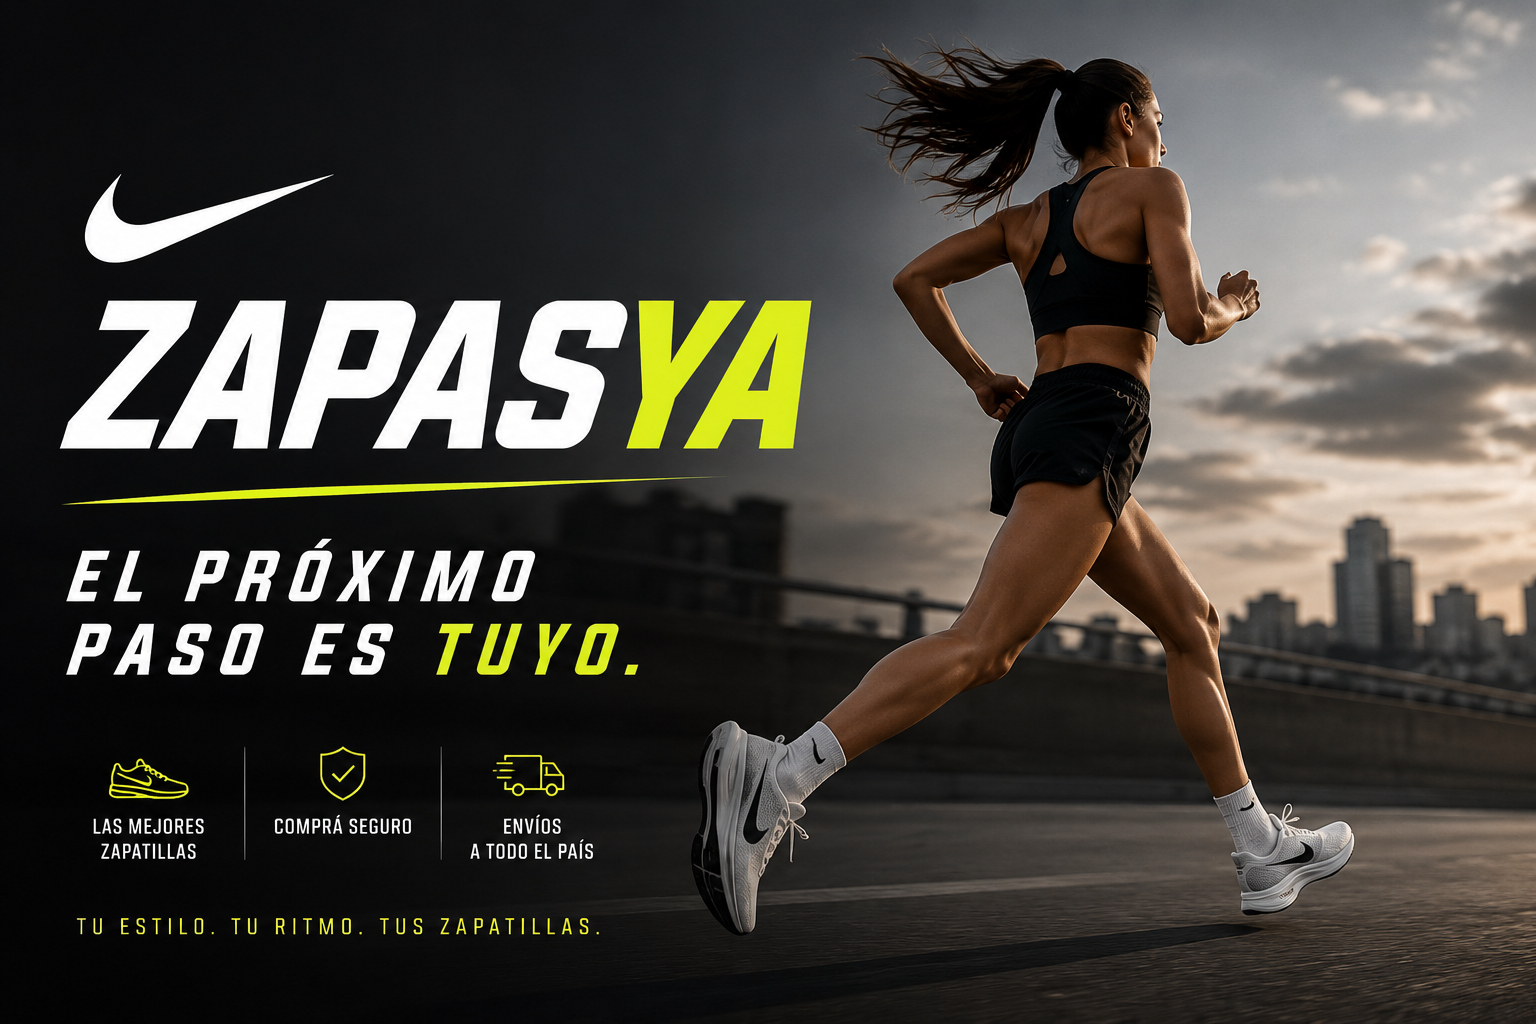
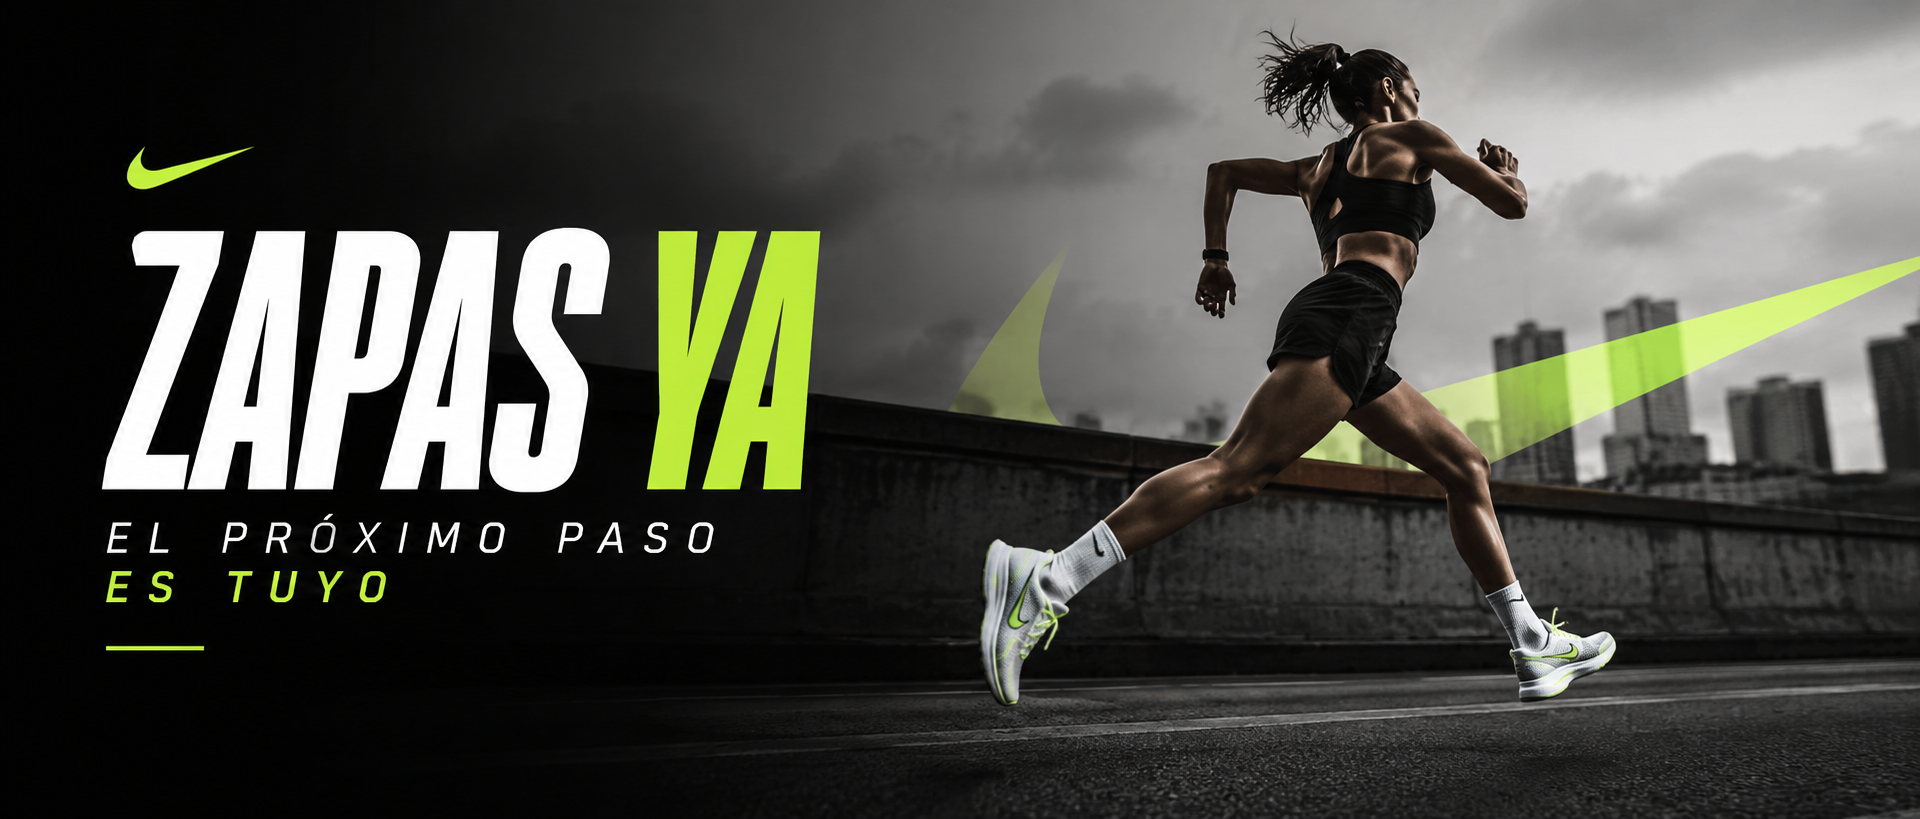
Modifico slogan

diff --git a/app/components/SloganBanner.tsx b/app/components/SloganBanner.tsx
@@ -6,12 +6,12 @@ export default function SloganBanner({ searchParams }: { searchParams: Record<st
   if (hasFilters) return null;
 
   return (
-    <div className="relative w-full max-w-2xl mx-auto overflow-hidden rounded-2xl">
+    <div className="relative w-full overflow-hidden rounded-2xl">
       <Image
         src="/images/slogan.png"
         alt="Slogan"
         width={800}
-        height={267}
+        height={400}
         className="w-full h-auto"
         priority
       />
